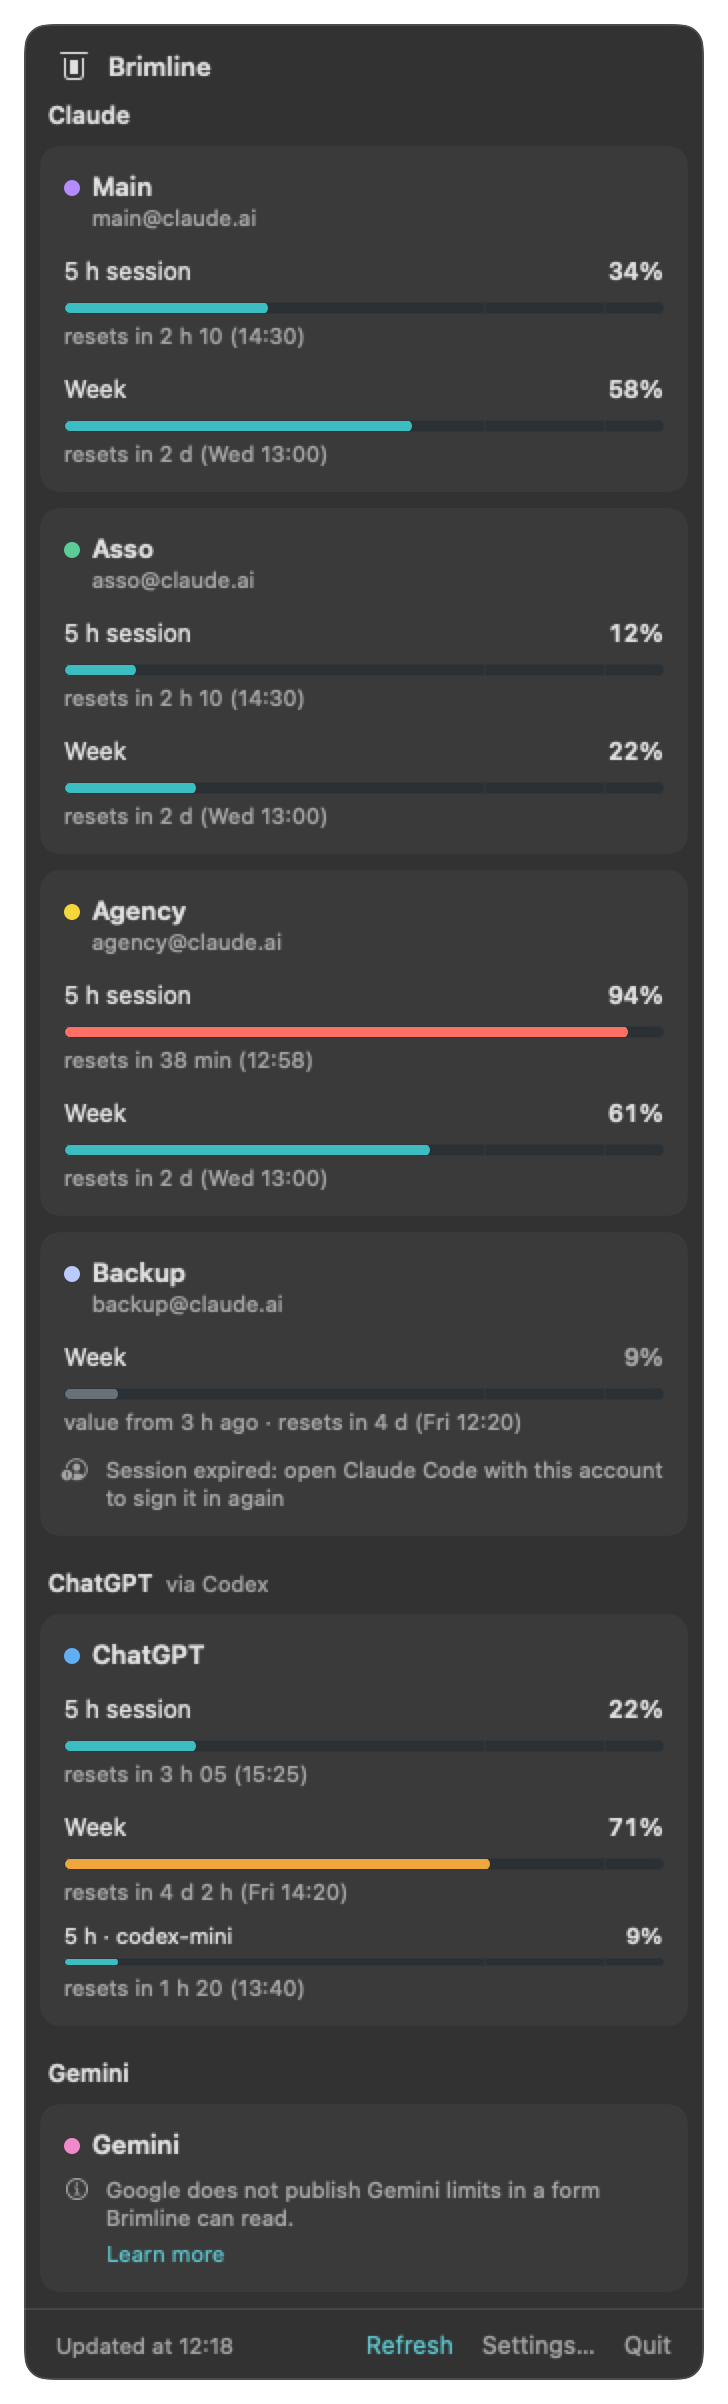
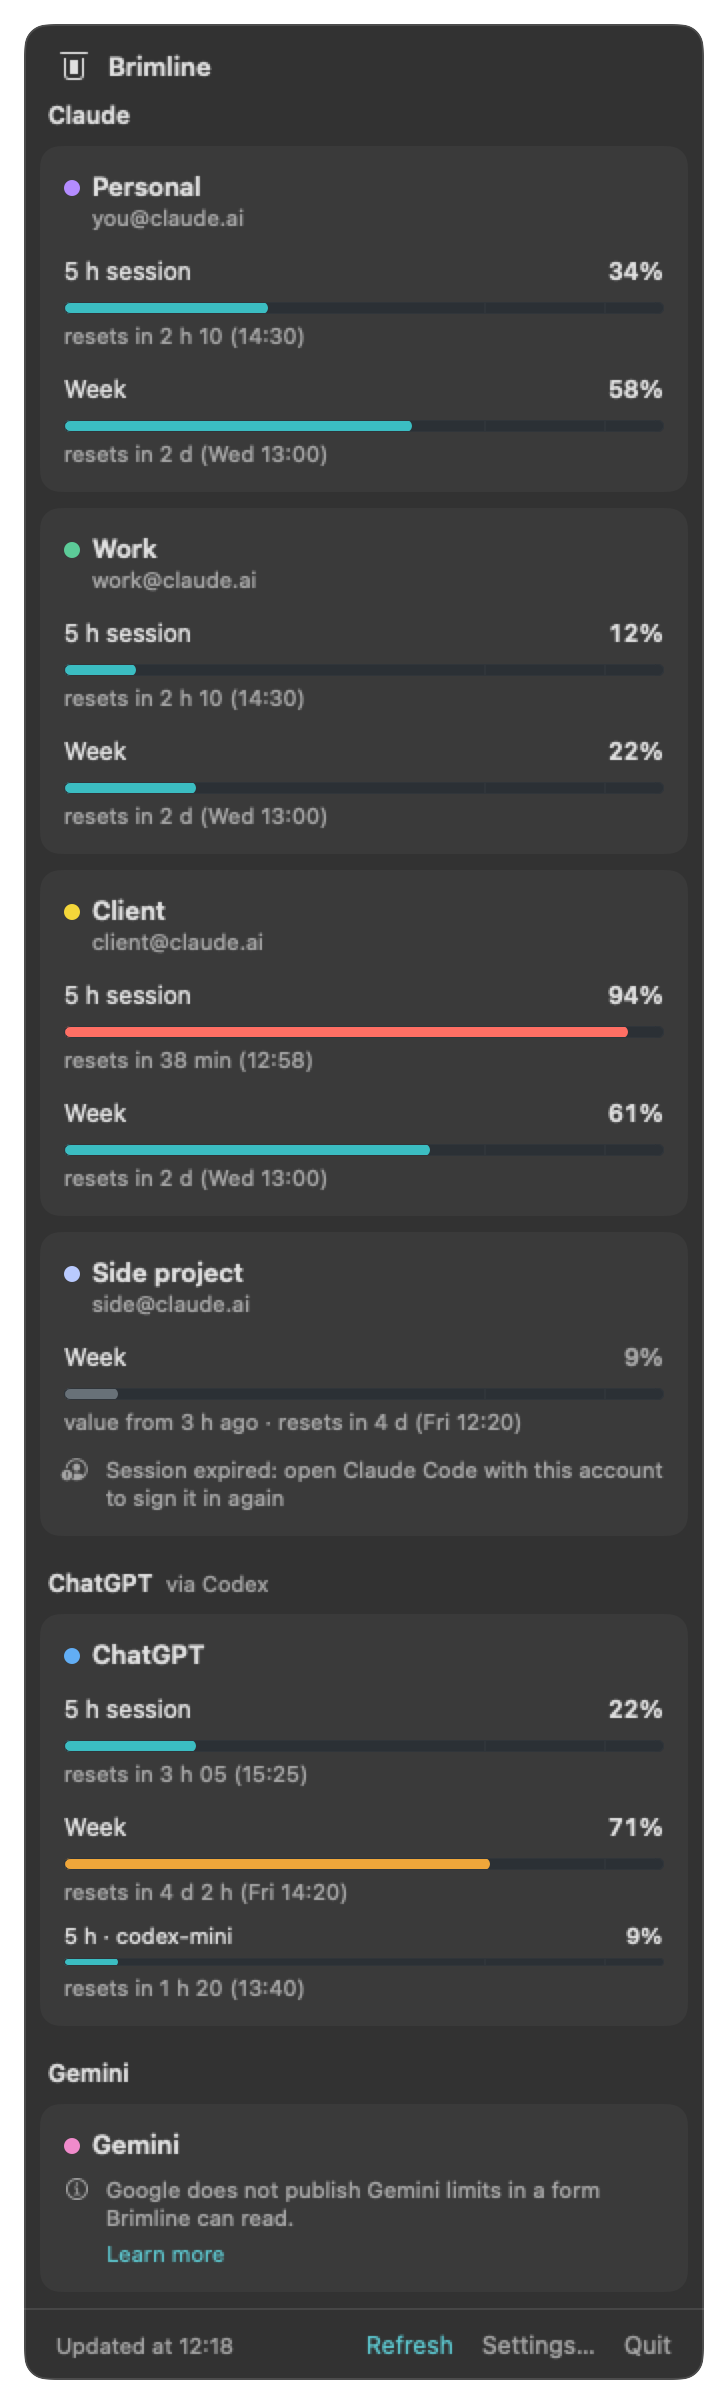
Brimline 0.2.0 (#35)
* Brimline : retouches de texte relevées par les relectures du lot (transcript_path absent, « pourrait la casser », FAQ)

* Brimline : Gemini, build vérifiée Antigravity CLI 1.4.9 (28/10/2026)

Antigravity s'est mis à jour seul en 1.4.9 : comme prévu, Brimline ne
lançait plus rien et la carte disait « Antigravity was updated: update
Brimline. ». La build 1.4.9 est vérifiée comme 1.4.8 l'avait été.

- Essai réel : `agy --print /usage --sandbox` lancé comme Brimline le
  lance (dossier de travail neuf et vide, HOME, PATH=/usr/bin:/bin,
  LANG=en_US.UTF-8, entrée vide) : sortie 0, rien sur stderr, les cinq
  mêmes lignes que 1.4.8 (quatre colonnes séparées par des tabulations,
  pourcentage restant suivi de %, date ISO 8601 en Z, mêmes noms de
  groupes et de limites). Le parseur ne change pas.
- AntigravityTrust : entrée 1.4.9 (SHA-256 a66421b7...065c7b, sortie
  exacte de --version « 1.4.9 »), commentaire daté ; signature Google
  LLC, équipe EQHXZ8M8AV, comme 1.4.8.
- Tests : la liste du registre porte 1.4.8 et 1.4.9 ; 1.4.9 n'est lue
  qu'avec son propre --version (1.4.8 annoncé est refusé, /usage jamais
  lancé), et une build absente de la liste reste refusée sans aucun
  lancement.
- Vérifié avec la commande construite (`brimline status --live
  --provider gemini`) : les cinq limites, 0 % utilisé (100 % restant),
  remises à zéro égales au texte d'agy à l'écart des deux lancements
  près ; aucun processus agy restant.
[…]

diff --git a/Sources/BrimlineSnapshots/main.swift b/Sources/BrimlineSnapshots/main.swift
@@ -410,27 +410,27 @@ var accountsTabSettings: BrimlineSettings {
 
 let accountsTabUsages = [providerAccounts[0], providerAccounts[1], providerAccounts[2], providerAccounts[3], providerAccounts[6]]
 
-// Four Claude accounts of one person (QUOTA-72): the dots of the panel and the colors in the settings. Asso has a
-// free violet close to Principal's (in the dark appearance), Secours a free grey too pale for the light mode, to show both warnings.
-let principal = account("main@claude.ai", ".claude", org: "Example", seat: "max")
-let asso = account("asso@claude.ai", ".claude-asso", org: "Example Association", seat: "max")
-let agence = account("agency@claude.ai", ".claude-agence", org: "Example Agency", seat: "max")
-let secours = account("backup@claude.ai", ".claude-secours", org: "Example Backup", seat: "max")
+// Four Claude accounts of one person (QUOTA-72): the dots of the panel and the colors in the settings. Work has a
+// free violet close to Personal's (in the dark appearance), Side project a free grey too pale for the light mode, to show both warnings.
+let personal = account("you@claude.ai", ".claude", org: "Example", seat: "max")
+let work = account("work@claude.ai", ".claude-work", org: "Example Team", seat: "max")
+let client = account("client@claude.ai", ".claude-client", org: "Example Client", seat: "max")
+let side = account("side@claude.ai", ".claude-side", org: "Example Side", seat: "max")
 
 let fourClaude: [AccountUsage] = [
-    AccountUsage(account: principal, status: .ok, limits: [
+    AccountUsage(account: personal, status: .ok, limits: [
         UsageLimit(kind: .session, percent: 34, resetsAt: minutes(130)),
         UsageLimit(kind: .weekly, percent: 58, resetsAt: minutes(60 * 24 * 2 + 40)),
     ], fetchedAt: minutes(-2), checkedAt: minutes(-2)),
-    AccountUsage(account: asso, status: .ok, limits: [
+    AccountUsage(account: work, status: .ok, limits: [
         UsageLimit(kind: .session, percent: 12, resetsAt: minutes(130)),
         UsageLimit(kind: .weekly, percent: 22, resetsAt: minutes(60 * 24 * 2 + 40)),
     ], fetchedAt: minutes(-2), checkedAt: minutes(-2)),
-    AccountUsage(account: agence, status: .ok, limits: [
+    AccountUsage(account: client, status: .ok, limits: [
         UsageLimit(kind: .session, percent: 94, resetsAt: minutes(38)),
         UsageLimit(kind: .weekly, percent: 61, resetsAt: minutes(60 * 24 * 2 + 40)),
     ], fetchedAt: minutes(-2), checkedAt: minutes(-2)),
-    AccountUsage(account: secours, status: .expired, limits: [
+    AccountUsage(account: side, status: .expired, limits: [
         UsageLimit(kind: .weekly, percent: 9, resetsAt: minutes(60 * 24 * 4)),
     ], fetchedAt: minutes(-180), checkedAt: minutes(-2)),
 ]
@@ -440,21 +440,21 @@ var colorsSettings: BrimlineSettings {
     var s = BrimlineSettings()
     s.providerHintDismissed = true
     s.enabledProviders = [Provider.claude, .chatgpt, .gemini].map(\.rawValue)
-    s.labels = [principal.id: "Main", asso.id: "Asso", agence.id: "Agency", secours.id: "Backup"]
+    s.labels = [personal.id: "Personal", work.id: "Work", client.id: "Client", side.id: "Side project"]
     return s
 }
 
-/// The same, in French, with the names the board of lot D uses.
+/// The same, in French.
 var colorsSettingsFR: BrimlineSettings {
     var s = colorsSettings
-    s.labels = [principal.id: "Principal", asso.id: "Asso", agence.id: "Agence", secours.id: "Secours"]
+    s.labels = [personal.id: "Perso", work.id: "Travail", client.id: "Client", side.id: "Projet perso"]
     return s
 }
 
-/// With the two warnings: Asso's free violet is close to Principal's, Secours' free grey is too pale for light mode.
+/// With the two warnings: Work's free violet is close to Personal's, Side project's free grey is too pale for light mode.
 func withWarnings(_ settings: BrimlineSettings) -> BrimlineSettings {
     var s = settings
-    s.accountColors = [asso.id: .custom("9870E6"), secours.id: .custom("D9DEE3")]
+    s.accountColors = [work.id: .custom("9870E6"), side.id: .custom("D9DEE3")]
     return s
 }
 

diff --git a/tests/BrimlineCoreTests/Providers/AntigravityTests.swift b/tests/BrimlineCoreTests/Providers/AntigravityTests.swift
@@ -34,7 +34,8 @@ final class FakeAntigravity: AntigravityRunning, @unchecked Sendable {
     }
 }
 
-/// Gemini read through Antigravity, on the shape of the real text of `/usage` (Antigravity CLI 1.4.8, 27/10/2026).
+/// Gemini read through Antigravity, on the shape of the real text of `/usage` (Antigravity CLI 1.4.8, 27/10/2026,
+/// and 1.4.9, 28/10/2026: the same text).
 @Suite("Gemini: read through Antigravity")
 struct AntigravityTests {
     let now = date("2026-10-27T10:00:00Z")
@@ -92,15 +93,52 @@ struct AntigravityTests {
         _ = home
     }
 
-    @Test("The registry's Gemini reader trusts the one build seen on a real account: 1.4.8, by its SHA-256")
-    func registryReaderTrustsOnlyTheVerifiedBuild() throws {
+    @Test("The registry's Gemini reader trusts the builds seen on a real account: 1.4.8 and 1.4.9, by their SHA-256")
+    func registryReaderTrustsOnlyTheVerifiedBuilds() throws {
         let reader = try #require(Providers.all.compactMap { $0 as? GeminiReader }.first)
         #expect(reader.trust == .verified)
         #expect(AntigravityTrust.verified.entries == [
[2 lines of base64/hex data omitted]
         ])
         #expect(reader.allowedURLs.isEmpty)
         #expect(reader.minimumReadInterval == 15 * 60)
+    }
+
+    @Test("1.4.9 is accepted with its own --version only; a build that is not on the list is still refused, nothing launched")
+    func build149AcceptedOthersRefused() async throws {
+        let verified = AntigravityTrust.verified
[1 lines of base64/hex data omitted]
+        #expect(verified.entry(sha256: sha149)?.versionOutput == "1.4.9")
[1 lines of base64/hex data omitted]
+        #expect(verified.entry(sha256: sha149.uppercased()) == nil)
+        #expect(verified.entry(sha256: String(repeating: "0", count: 64)) == nil)
+
+        // The real list and a binary that is none of its builds: format_changed, and not one launch.
+        let (_, fakeTrust, account) = try installed()
+        let other = runner(usage: ok(try text("antigravity-usage-normal")), version: ok("1.4.9\n"))
+        guard case .failure(.formatChanged, _, _) = await GeminiReader(runner: other, trust: verified).read(account: account, now: now) else {
+            Issue.record("expected format_changed")
+            return
+        }
+        #expect(other.launches.isEmpty)
+
+        // A binary listed as 1.4.9: read when `--version` says 1.4.9 (the text of 1.4.9 is the text of 1.4.8),
+        // refused when it says anything else, 1.4.8 included.
+        let as149 = AntigravityTrust(entries: [.init(sha256: fakeTrust.entries[0].sha256, versionOutput: "1.4.9")])
+        let accepted = runner(usage: ok(try text("antigravity-usage-normal")), version: ok("1.4.9\n"))
+        guard case .limits(let limits, _) = await GeminiReader(runner: accepted, trust: as149).read(account: account, now: now) else {
+            Issue.record("expected limits")
+            return
+        }
+        #expect(limits.map(\.percent) == [36, 10, 0, 0, 25])
+        #expect(accepted.usageLaunches.count == 1)
+        let mismatched = runner(usage: ok(try text("antigravity-usage-normal")), version: ok("1.4.8\n"))
+        guard case .failure(.formatChanged, _, _) = await GeminiReader(runner: mismatched, trust: as149).read(account: account, now: now) else {
+            Issue.record("expected format_changed")
+            return
+        }
+        #expect(mismatched.usageLaunches.isEmpty)
     }
 
     @Test("Without agy at its path, the card says the sentence and nothing is launched")

diff --git a/tests/BrimlineUITests/AccountColorSettingsTests.swift b/tests/BrimlineUITests/AccountColorSettingsTests.swift
@@ -98,25 +98,25 @@ struct AccountColorSettingsTests {
     @Test("Two visible accounts with close colors are warned, each naming the other by the name the panel gives it")
     func closeWarning() throws {
         let m = model([a, b, c]) {
-            $0.labels = [a.id: "Main", b.id: "Asso"]
+            $0.labels = [a.id: "Personal", b.id: "Client"]
             $0.accountColors = [a.id: .palette(0), b.id: .custom("9870E6"), c.id: .palette(5)]
         }
         let forA = m.colorWarnings(for: a)
         #expect(forA == [.close(accountID: b.id)])
-        #expect(m.text(for: try #require(forA.first)) == "Close to Asso's color: their two shares are hard to tell apart in the gauge.")
+        #expect(m.text(for: try #require(forA.first)) == "Close to Client's color: their two shares are hard to tell apart in the gauge.")
         #expect(m.colorWarnings(for: b) == [.close(accountID: a.id)])
-        #expect(m.text(for: try #require(m.colorWarnings(for: b).first)).contains("Main"))
+        #expect(m.text(for: try #require(m.colorWarnings(for: b).first)).contains("Personal"))
         #expect(m.colorWarnings(for: c).isEmpty)
     }
 
     @Test("The warning is in French when the interface is")
     func closeWarningInFrench() throws {
         let m = model([a, b], language: .fr) {
-            $0.labels = [a.id: "Principal", b.id: "Asso"]
+            $0.labels = [a.id: "Perso", b.id: "Client"]
             $0.accountColors = [a.id: .palette(0), b.id: .custom("9870E6")]
         }
         #expect(m.text(for: try #require(m.colorWarnings(for: a).first))
-            == "Proche de la couleur de Asso : leurs deux parts se distinguent mal dans la jauge.")
+            == "Proche de la couleur de Client : leurs deux parts se distinguent mal dans la jauge.")
     }
 
     @Test("A hidden account, or one of a provider that is off, is not compared: the gauge does not show it")

diff --git a/tests/BrimlineCoreTests/AccountColorsTests.swift b/tests/BrimlineCoreTests/AccountColorsTests.swift
@@ -172,7 +172,7 @@ struct AccountColorsTests {
 
     @Test("Four Claude accounts get four different colors, the first one the violet")
     func fourClaude() {
-        let accounts = ["main", "asso", "agence", "secours"].map { acct(.claude, $0) }
+        let accounts = ["personal", "work", "client", "side"].map { acct(.claude, $0) }
         var settings = BrimlineSettings()
         settings.assignDefaultColors(to: accounts)
         let slots = accounts.map { slot(settings.accountColors[$0.id]) }
@@ -293,14 +293,14 @@ struct AccountColorsSettingsTests {
         try JSONDecoder().decode(BrimlineSettings.self, from: Data(json.utf8))
     }
 
-    @Test("A file of 0.2.0, without the key, reads as before and has no colors")
+    @Test("A file of an earlier version, without the key, reads as before and has no colors")
     func fileWithoutTheKey() throws {
         let settings = try decode(#"{"schemaVersion":1,"refreshMinutes":10,"labels":{"claude:/a":"Work"},"enabledProviders":["claude"]}"#)
         #expect(settings.accountColors.isEmpty && settings.schemaVersion == 1 && settings.refreshMinutes == 10)
         #expect(settings.label(for: "claude:/a") == "Work")
     }
 
-    @Test("A complete settings.json of 0.2.0 (every key it wrote) reads without losing a value, and stays the same once saved")
+    @Test("A complete settings.json of an earlier version (every key it wrote) reads without losing a value, and stays the same once saved")
     func completeFileOfVersion020() throws {
         let json = """
         {"schemaVersion":1,"extraFolders":["/tmp/qa/.claude-x"],"extraCodexFolders":["/tmp/qa/.codex-y"],

diff --git a/Sources/BrimlineCore/Providers/Gemini/AntigravityTrust.swift b/Sources/BrimlineCore/Providers/Gemini/AntigravityTrust.swift
@@ -8,7 +8,7 @@ import Foundation
 /// (`format_changed`) instead of guessing.
 ///
 /// The text of `/usage` is not documented by Google: an entry is added only after the real try of that
-/// build (`AntigravityUsageParser` reads the text of 1.4.8). A list with no entry (or a build that is not
+/// build (`AntigravityUsageParser` reads the text of 1.4.8, the same on 1.4.9). A list with no entry (or a build that is not
 /// on it) makes Gemini answer `format_changed` with no program launched: honest by default.
 public struct AntigravityTrust: Sendable, Equatable {
     public struct Entry: Sendable, Equatable {
@@ -32,8 +32,12 @@ public struct AntigravityTrust: Sendable, Equatable {
     /// The builds verified on a real account.
     /// - 1.4.8: seen on 27/10/2026 on the Mac mini (installer of antigravity.google/cli/install.sh), the binary
     ///   signed by the team `EQHXZ8M8AV`. Brimline does not check the signature: the SHA-256 is what is compared.
+    /// - 1.4.9: seen on 28/10/2026 on the Mac mini (Antigravity updated itself in place), signed by the same team
+    ///   `EQHXZ8M8AV`; `agy --print /usage --sandbox`, launched as Brimline launches it, printed the text of 1.4.8
+    ///   (same columns, tabs, percentages remaining and dates).
     public static let verified = AntigravityTrust(entries: [
[2 lines of base64/hex data omitted]
     ])
 
     public var isEmpty: Bool { entries.isEmpty }

diff --git a/Sources/BrimlineCore/Formatting.swift b/Sources/BrimlineCore/Formatting.swift
@@ -171,8 +171,8 @@ public struct Strings: Sendable {
           "Claude Code donne les limites de son compte à sa ligne d'état (abonnements Pro et Max ; pour un siège Team, voir stream-json dans le guide). Ajoutez la commande de chaque compte à la ligne d'état de son dossier de Claude Code : Brimline montre alors le compte, même sans dossier sur ce Mac, avec l'âge de ses chiffres. Aucun jeton n'est lu, aucune requête n'est envoyée.")
     }
     public var reportsAuto: String {
-        t("Shortcut: --account auto takes the address of the folder the command runs for (its CLAUDE_CONFIG_DIR, or ~/.claude), and writes nothing when the session's transcript lies in another folder.",
-          "Raccourci : --account auto prend l'adresse du dossier pour lequel la commande tourne (son CLAUDE_CONFIG_DIR, ou ~/.claude), et n'écrit rien quand la transcription de la session est dans un autre dossier.")
+        t("Shortcut: --account auto takes the address of the folder the command runs for (its CLAUDE_CONFIG_DIR, or ~/.claude), and writes nothing when the session's transcript is missing or lies in another folder.",
+          "Raccourci : --account auto prend l'adresse du dossier pour lequel la commande tourne (son CLAUDE_CONFIG_DIR, ou ~/.claude), et n'écrit rien quand la transcription de la session manque ou est dans un autre dossier.")
     }
     public var reportsNoAddress: String {
         t("No Claude account with an address yet: use the shortcut, or write the address after --account.",

diff --git a/Sources/BrimlineCLI/main.swift b/Sources/BrimlineCLI/main.swift
@@ -49,9 +49,10 @@ Usage:
                                       CLAUDE_CONFIG_DIR folder of this command (or ~/.claude): in
                                       CLAUDE_CONFIG_DIR=... claude -p | brimline ..., the variable
                                       does not reach brimline, so give the address there; with
-                                      --statusline, a transcript_path outside that folder writes
-                                      nothing. Exit codes: 0 recorded, 3 nothing in the input, 4
-                                      format changed (recorded as such), 1 not written, 64 usage.
+                                      --statusline, a transcript_path that is missing or outside
+                                      that folder writes nothing. Exit codes: 0 recorded, 3
+                                      nothing in the input, 4 format changed (recorded as such), 1
+                                      not written, 64 usage.
   brimline mcp                        Local MCP server over stdio (list_accounts, get_usage,
                                       best_account).
   brimline --version                  Print the version.

diff --git a/tests/BrimlineCoreTests/AccountColorWarningsTests.swift b/tests/BrimlineCoreTests/AccountColorWarningsTests.swift
@@ -123,12 +123,12 @@ struct AccountColorWarningsTests {
 
     @Test("The sentences of the warnings, French and English, with the decimal comma in French")
     func sentences() {
-        let name: (String) -> String = { _ in "Asso" }
+        let name: (String) -> String = { _ in "Client" }
         let fr = Strings(.fr), en = Strings(.en)
         #expect(fr.colorWarning(.close(accountID: "x"), account: name)
-            == "Proche de la couleur de Asso : leurs deux parts se distinguent mal dans la jauge.")
+            == "Proche de la couleur de Client : leurs deux parts se distinguent mal dans la jauge.")
         #expect(en.colorWarning(.close(accountID: "x"), account: name)
-            == "Close to Asso's color: their two shares are hard to tell apart in the gauge.")
+            == "Close to Client's color: their two shares are hard to tell apart in the gauge.")
         #expect(fr.colorWarning(.lowContrast(dark: false, ratio: 1.4), account: name)
             == "Peu visible en mode clair : contraste de 1,4:1 sur la jauge, 3:1 conseillé.")
         #expect(en.colorWarning(.lowContrast(dark: true, ratio: 2.5), account: name)

diff --git a/Sources/BrimlineCore/Providers/Gemini/AntigravityUsageParser.swift b/Sources/BrimlineCore/Providers/Gemini/AntigravityUsageParser.swift
@@ -4,7 +4,7 @@ import Foundation
 ///
 /// Google documents the command (`/usage`, alias `/quota`, https://antigravity.google/docs/cli/commands/usage/
 /// and https://antigravity.google/docs/cli/headless/) but not the format of its text. This is the real one,
-/// seen on Antigravity CLI 1.4.8 on 27/10/2026 (values and dates replaced here):
+/// seen on Antigravity CLI 1.4.8 on 27/10/2026, and the same on 1.4.9 on 28/10/2026 (values and dates replaced here):
 ///
 ///     Gemini Models<TAB>Weekly Limit Remaining<TAB>100%<TAB>2026-11-03T18:10:18Z
 ///     Gemini Models<TAB>Five Hour Limit Remaining<TAB>100%<TAB>2026-10-27T23:10:18Z

diff --git a/Sources/BrimlineUI/AccountColorRow.swift b/Sources/BrimlineUI/AccountColorRow.swift
@@ -53,7 +53,7 @@ struct AccountColorRow: View {
                         }
                     }
                 }
-                // One group with one choice, as VoiceOver reads a set of radio buttons: "Color of Asso", then each
+                // One group with one choice, as VoiceOver reads a set of radio buttons: "Color of Client", then each
                 // name. "Other color…" stays outside it: the representation replaces what it covers, and the real
                 // picker must stay reachable.
                 .accessibilityRepresentation {

diff --git a/Sources/BrimlineCore/Version.swift b/Sources/BrimlineCore/Version.swift
@@ -2,7 +2,7 @@ import Foundation
 
 public enum BrimlineVersion {
     /// Must equal the VERSION file at the root of the repository (a test checks it).
-    public static let source = "0.1.0"
+    public static let source = "0.2.0"
 
     /// The version of the running app or command: the Info.plist of Brimline.app when there is
     /// one (the command lives in Brimline.app/Contents/Helpers), else `source`.

diff --git a/scripts/release_notes.py b/scripts/release_notes.py
@@ -3,6 +3,9 @@
   python3 scripts/release_notes.py version        prints the version from VERSION
   python3 scripts/release_notes.py notes X.Y.Z    prints the "## [X.Y.Z]" section of CHANGELOG.md
 
+Relative Markdown links are rewritten to absolute links on the tag (a release page has no repository
+folder to resolve them against); the changelog itself keeps them relative.
+
 Fails when the version is malformed or its changelog section is missing or empty: a release never
 gets a generic note.
 """
@@ -11,6 +14,26 @@ import sys
 from pathlib import Path
 
 ROOT = Path(__file__).resolve().parent.parent
+REPO_URL = "https://github.com/ThanaelFontaine/Brimline"
+# ](target) where the target is not absolute (a scheme such as https: or mailto:), not an anchor alone, not a root path.
+RELATIVE_LINK = re.compile(r"\]\((?![a-zA-Z][a-zA-Z0-9+.-]*:|#|/|\s)([^)\s]*)\)")
+
+
+def absolute_links(body, v):
+    """Rewrites each relative link to the blob of tag vX.Y.Z (anchor kept, ./ and ../ resolved from the root)."""
+
+    def rewrite(match):
+        path, sep, anchor = match.group(1).partition("#")
+        parts = []
+        for part in path.split("/"):
+            if part == "..":
+                if parts:
+                    parts.pop()
+            elif part not in ("", "."):
+                parts.append(part)
+        return f"]({REPO_URL}/blob/v{v}/{'/'.join(parts)}{sep}{anchor})"
+
+    return RELATIVE_LINK.sub(rewrite, body)
 
 
 def version():
@@ -26,7 +49,7 @@ def notes(v):
     body = match.group(1).strip() if match else ""
     if not body:
         sys.exit(f"CHANGELOG.md has no notes for {v}: write the ## [{v}] section first")
-    return body
+    return absolute_links(body, v)
 
 
 if __name__ == "__main__":
